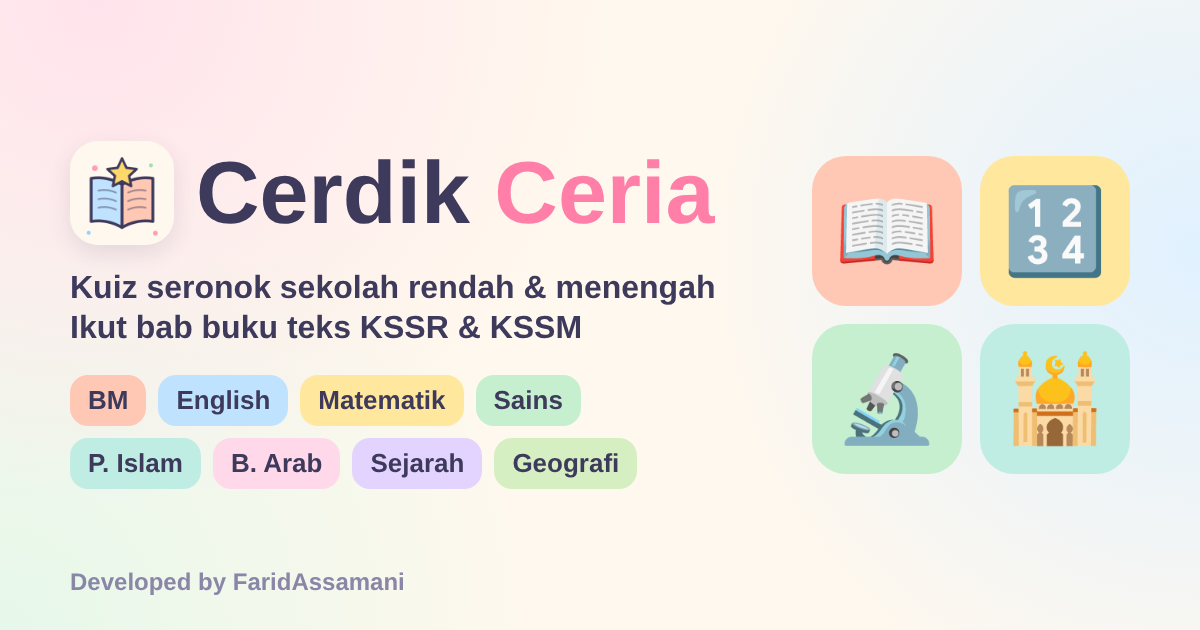
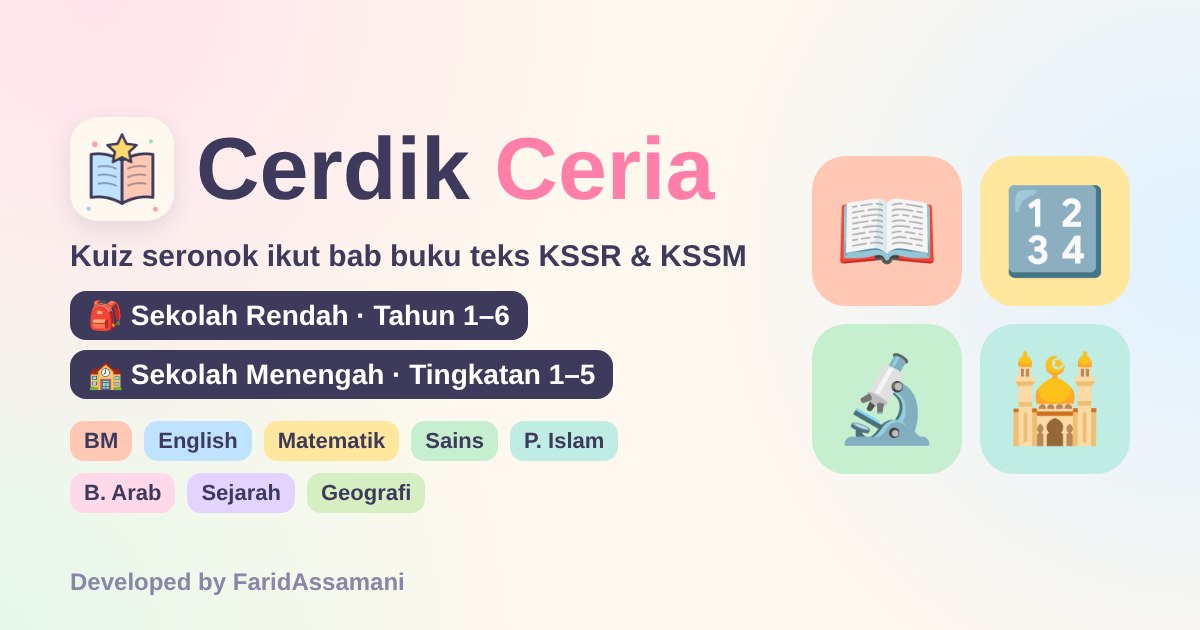
Preview WhatsApp: tunjuk Tahun 1–6 dan Tingkatan 1–5 dengan jelas
Claude-Session: https://claude.ai/code/session_01JH4JT2dDNTPRenS5n9r5YR

Changed region(s): [[0.0308, 0.3921, 0.6475, 0.8143], [0.0617, 0.2111, 0.6167, 0.3619]]

diff --git a/index.html b/index.html
@@ -8,10 +8,10 @@
 <meta name="author" content="FaridAssamani">
 <meta property="og:type" content="website">
 <meta property="og:site_name" content="Cerdik Ceria">
-<meta property="og:title" content="Cerdik Ceria — Kuiz seronok sekolah rendah &amp; menengah 📚">
-<meta property="og:description" content="Sekolah Rendah (Tahun 1–6, KSSR) dan Sekolah Menengah (Tingkatan, KSSM): BM, English, Matematik, Sains, Sejarah, Geografi, Pendidikan Islam dan Bahasa Arab. Developed by FaridAssamani.">
+<meta property="og:title" content="Cerdik Ceria — Kuiz Tahun 1–6 &amp; Tingkatan 1–5 📚">
+<meta property="og:description" content="Sekolah Rendah (Tahun 1–6, KSSR) dan Sekolah Menengah (Tingkatan 1–5, KSSM): BM, English, Matematik, Sains, Sejarah, Geografi, Pendidikan Islam dan Bahasa Arab. Developed by FaridAssamani.">
 <meta property="og:url" content="https://farawyadal.github.io/cerdikceria/">
-<meta property="og:image" content="https://farawyadal.github.io/cerdikceria/og-image.png?v=3">
+<meta property="og:image" content="https://farawyadal.github.io/cerdikceria/og-image.png?v=4">
 <meta property="og:image:width" content="1200">
 <meta property="og:image:height" content="630">
 <meta property="og:locale" content="ms_MY">
